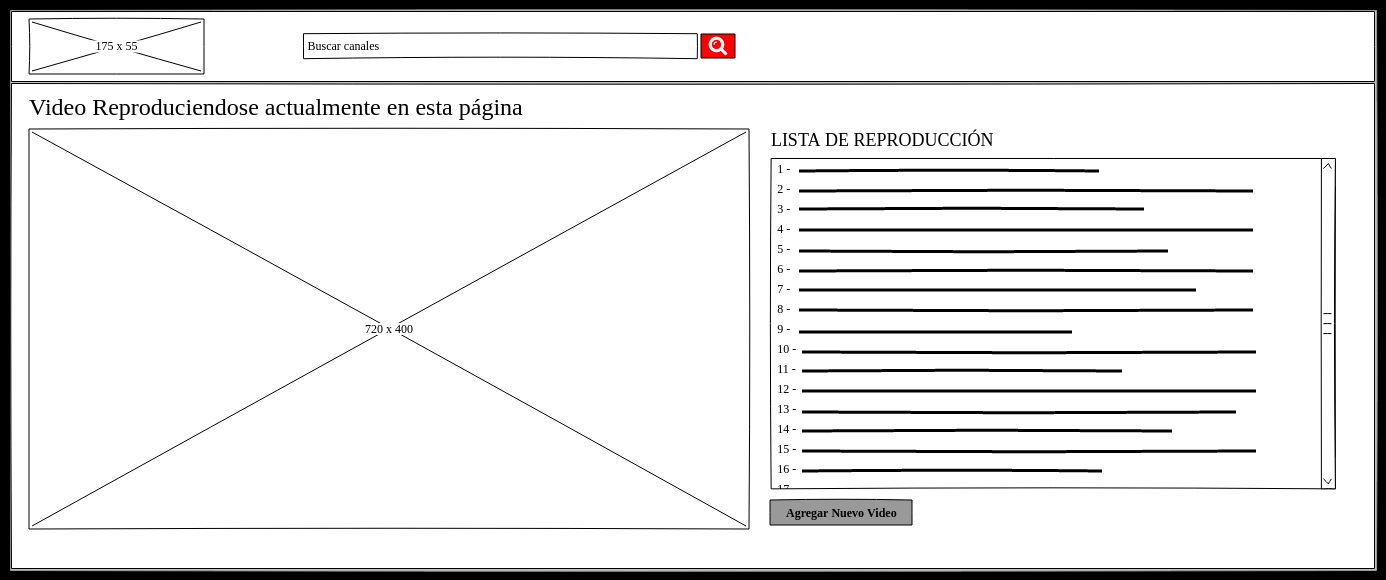
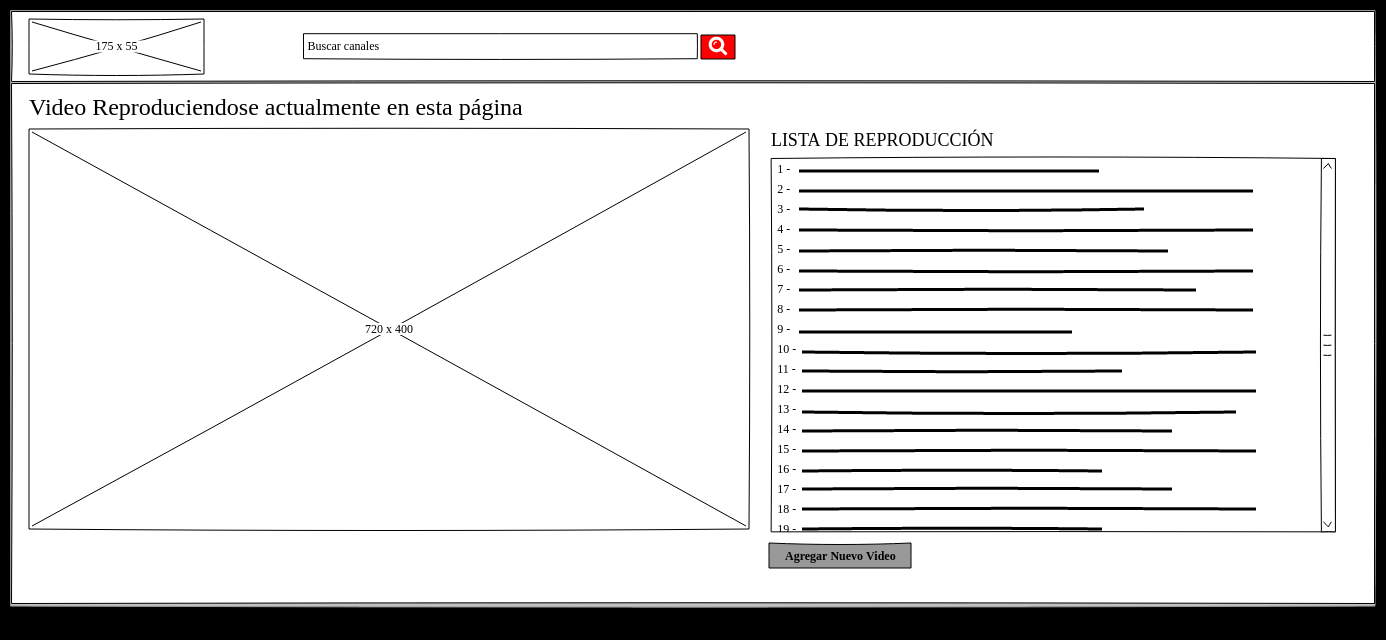
Agregado botón a vista html

diff --git a/docs/mockups/demo/index.html b/docs/mockups/demo/index.html
@@ -1,2 +1,2 @@
 <html xmlns="http://www.w3.org/1999/xhtml" xmlns:p="http://www.evolus.vn/Namespace/Pencil" xmlns:html="http://www.w3.org/1999/xhtml"><head><meta http-equiv="Content-Type" content="text/html; charset=UTF-8" />
-<title>mocks</title><link rel="stylesheet" href="Resources/SampleStyle.css" /></head><body><h1 id="documentTitle">mocks</h1><p id="documentMetadata">Exported at: Sun Oct 28 2018 02:55:37 GMT-0300 (-03)</p><div class="Page" id="player_page"><h2>Player</h2><div class="ImageContainer"><img src="pages/player.png" width="1386" height="580" usemap="#map_player" /></div><map name="map_player"><area shape="rect" coords="770,499,912,525" href="#playeragregar_video_page" title="Go to page 'Player-Agregar Video'" /></map></div><div class="Page" id="playeragregar_video_page"><h2>Player-Agregar Video</h2><div class="ImageContainer"><img src="pages/playeragregar_video.png" width="1386" height="580" usemap="#map_playeragregar_video" /></div><map name="map_playeragregar_video"><area shape="rect" coords="930,193,954,217" href="#player_page" title="Go to page 'Player'" /><area shape="rect" coords="830,379,920,404" href="#playeragregar_video_ok_page" title="Go to page 'Player-Agregar Video OK'" /></map></div><div class="Page" id="playeragregar_video_ok_page"><h2>Player-Agregar Video OK</h2><div class="ImageContainer"><img src="pages/playeragregar_video_ok.png" width="1386" height="580" usemap="#map_playeragregar_video_ok" /></div><map name="map_playeragregar_video_ok"><area shape="rect" coords="648,269,738,296" href="#player_page" title="Go to page 'Player'" /></map></div></body></html>
+<title>mocks</title><link rel="stylesheet" href="Resources/SampleStyle.css" /></head><body><h1 id="documentTitle">mocks</h1><p id="documentMetadata">Exported at: Sun Oct 28 2018 03:20:39 GMT-0300 (-03)</p><div class="Page" id="player_page"><h2>Player</h2><div class="ImageContainer"><img src="pages/player.png" width="1386" height="640" usemap="#map_player" /></div><map name="map_player"><area shape="rect" coords="769,543,911,568" href="#playeragregar_video_page" title="Go to page 'Player-Agregar Video'" /></map></div><div class="Page" id="playeragregar_video_page"><h2>Player-Agregar Video</h2><div class="ImageContainer"><img src="pages/playeragregar_video.png" width="1386" height="616" usemap="#map_playeragregar_video" /></div><map name="map_playeragregar_video"><area shape="rect" coords="930,193,954,217" href="#player_page" title="Go to page 'Player'" /><area shape="rect" coords="830,379,920,404" href="#playeragregar_video_ok_page" title="Go to page 'Player-Agregar Video OK'" /></map></div><div class="Page" id="playeragregar_video_ok_page"><h2>Player-Agregar Video OK</h2><div class="ImageContainer"><img src="pages/playeragregar_video_ok.png" width="1386" height="616" usemap="#map_playeragregar_video_ok" /></div><map name="map_playeragregar_video_ok"><area shape="rect" coords="647,331,737,356" href="#player_page" title="Go to page 'Player'" /></map></div></body></html>

diff --git a/webapp/app/views/player/player.css b/webapp/app/views/player/player.css
@@ -9,7 +9,7 @@
 
 #player-video-container > #player-playlist {
     overflow: hidden;
-    height: 400px; /* IDEM al tamaño del iframe */
+    height: 450px; /* tamaño del iframe + algo de espacio para mostrar el botón */
 }
 
 #player-video-container > #player-playlist > h2 {
@@ -22,9 +22,11 @@
     border-radius: 0px;
 }
 
-#player-video-container > #player-playlist div {
-    height: 100%;
-    background-color: grey;
+#player-video-container > #player-playlist > div:first-of-type {
+    height: 370px; /* video container height - playlist header height (400px - 30px = 370px) */
+    position: relative;
+    bottom: 0px;
+    /* background-color: grey; */
     overflow: auto;
 }
 
@@ -35,4 +37,8 @@
 #player-container h1 {
     font-size: 1.5em;
     margin-left: 20px;
+}
+
+#player-add-video-btn {
+    margin-top: 5px;
 }

diff --git a/webapp/app/views/player/player.html b/webapp/app/views/player/player.html
@@ -14,12 +14,12 @@
                     </li>
                 </ul>
             </div>
-        </div>
-    </section>
-    <section id="player-comments">
-        <h2>Comentarios/Chat</h2>
-        <div>
-            TODO
+            <div id="player-add-video-btn">
+                <button class="btn btn-secondary">
+                    <i class="fas fa-plus"></i>
+                    Agregar Video
+                </button>
+            </div>
         </div>
     </section>
 
